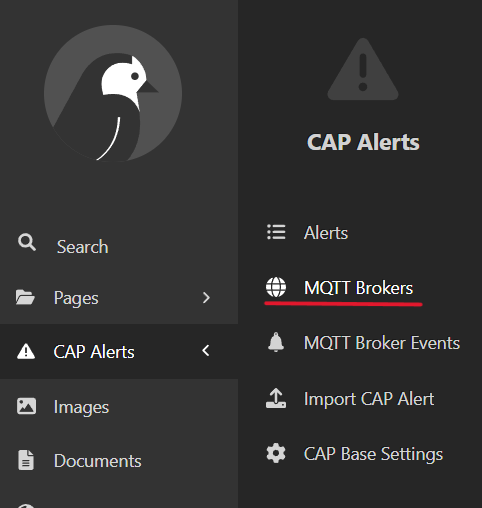
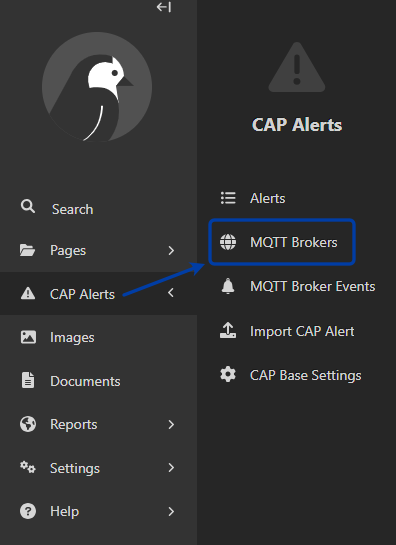
docs: improve screenshots

diff --git a/docs/source/user/cap-alerts.rst b/docs/source/user/cap-alerts.rst
@@ -3,7 +3,11 @@
 Publishing CAP Alerts to a wis2box
 ==================================
 
-Here we explain how one can use the `CAP Composer <https://github.com/wmo-raf/cap-composer>`_ to automate the publishing of CAP alerts to a wis2box.
+Overview
+--------
+The Common Alerting Protocol (CAP) is a simple but general format for exchanging all-hazard emergency alerts and public warnings over all kinds of networks, see the full specification `here <https://docs.oasis-open.org/emergency/cap/v1.2/CAP-v1.2.html>`_.
+
+This section provides guidance one how one can use the `CAP Composer <https://github.com/wmo-raf/cap-composer>`_ to automate the publishing of CAP alerts to a wis2box.
 
 Requirements
 ------------
@@ -47,7 +51,7 @@ Begin by logging in to the CAP Composer.
 .. note::
    We will assume that you have the necessary admin rights to configure the CAP Composer. If you do not, please contact your CAP focal point.
 
-Navigate to 'CAP Alerts' -> 'MQTT Brokers' in the left-hand menu.
+Navigate to 'CAP Alerts', then 'MQTT Brokers' in the left-hand menu.
 
 .. image:: ../_static/cap/mqtt_brokers_menu.png
    :alt: MQTT Brokers Menu
@@ -79,7 +83,7 @@ You will be redirected back to the 'MQTT Brokers' page, where you should see the
 
 Publishing an Alert
 -------------------
-Let's begin by creating a CAP alert. This can be done by navigating to 'CAP Alerts' -> 'Alerts' in the left-hand menu, and clicking the *Add Alert* button in the top-right corner.
+Let's begin by creating a CAP alert. This can be done by navigating to 'CAP Alerts', then 'Alerts' in the left-hand menu, and clicking the *Add Alert* button in the top-right corner.
 
 .. image:: ../_static/cap/alerts_menu.png
    :alt: Alerts Menu
@@ -99,7 +103,7 @@ On clicking the *Publish* button, the alert XML file will automatically be creat
 .. note::
    If you are a CAP composer, you will only be able to submit the alert for moderation. It is then the responsibility of the CAP approver to approve and publish the alert.
 
-You can view the status of the published alert in the 'CAP Alerts' -> 'MQTT Broker Events' section of the CAP Composer.
+You can view the status of the published alert in the 'CAP Alerts', then 'MQTT Broker Events' section of the CAP Composer.
 
 .. image:: ../_static/cap/mqtt_event_list.png
    :alt: MQTT Event List
